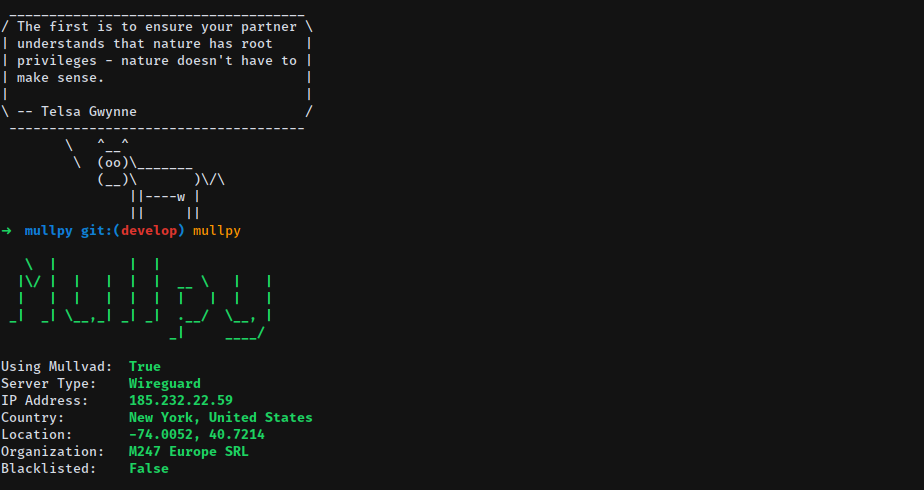
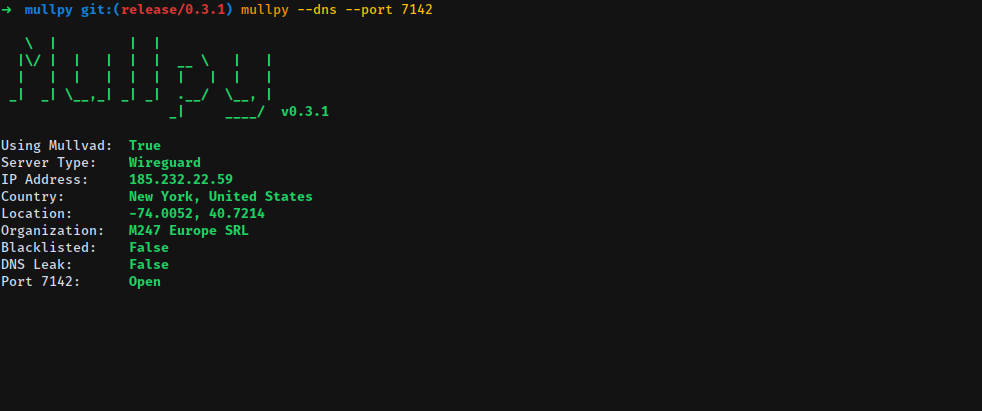
update README

diff --git a/README.md b/README.md
@@ -1,9 +1,9 @@
 # Mullpy
 [![Build Status](https://travis-ci.org/franccesco/mullpy.svg?branch=master)](https://travis-ci.org/franccesco/mullpy) [![Coverage Status](https://coveralls.io/repos/github/franccesco/mullpy/badge.svg?branch=develop)](https://coveralls.io/github/franccesco/mullpy?branch=develop)
 
-A little tool to check if you're currently connected to **Mullvad** VPN or not. Read the _very flattering_ [Mullvad review here](https://thatoneprivacysite.net/2017/10/03/mullvad-review/) by [That One Privacy Site](https://thatoneprivacysite.net/)
+A little tool to check if you're currently connected to **Mullvad** VPN or not and also checks for an open port and a DNS leak test. If you want to read more about Mullvad VPN you can goa head and read the _very flattering_ [Mullvad review here](https://thatoneprivacysite.net/2017/10/03/mullvad-review/) by [That One Privacy Site](https://thatoneprivacysite.net/)
 
-The tool _does not_ intend to be a swiss army knife, just a weekend mini project so I don't have to go to [am.i.mullvad.net](http://am.i.mullvad.net/) everytime to check on my connection. **For WebRTC and DNS leaks you should go to their website!**
+The tool _does not_ intend to be a swiss army knife, just a two day mini-project so I don't have to go to [am.i.mullvad.net](http://am.i.mullvad.net/) everytime to check on my connection. **For WebRTC you should go to their website!**
 
 ![Mullvad ON](assets/mullvad_on.png)
 
@@ -18,7 +18,7 @@ $ pip install --user mullvad-python
 ```
 
 # Usage
-```
+```bash
 $ mullpy
    \  |         |  |               
   |\/ |  |   |  |  |  __ \   |   | 
@@ -33,6 +33,16 @@ Country:	New York, United States
 Location:	-74.0052, 40.7214
 Organization:	M247 Europe SRL
 Blacklisted: 	False
+
+$ mullpy --help
+Usage: mullpy [OPTIONS]
+
+  CLI for Mullvad API.
+
+Options:
+  -d, --dns           Check for DNS leak.
+  -p, --port INTEGER  Checks for open port
+  --help              Show this message and exit.
 ```
 
 # TODO
@@ -40,13 +50,11 @@ Blacklisted: 	False
 - [x] Testing
 - [x] Continuous Integration
 - [x] Code Coverage
-- [ ] Port Checking
-- [ ] DNS Leak Test
-- [ ] Verbose options
-
+- [x] Port Checking
+- [x] DNS Leak Test
 
 # Support this project
-If you like the project and would like to support me you can buy me a cup of coffee, that would be much appreciated 🙏. If you can't, don't worry, enjoy it :)
+If you like the project and would like to support me you can buy me a cup of coffee, that would be much appreciated 🙏. If you can't, don't worry, enjoy it!
 
 <a href="https://www.paypal.me/orozcofranccesco">
   <img height="32" src="assets/paypal_badge.png" />
